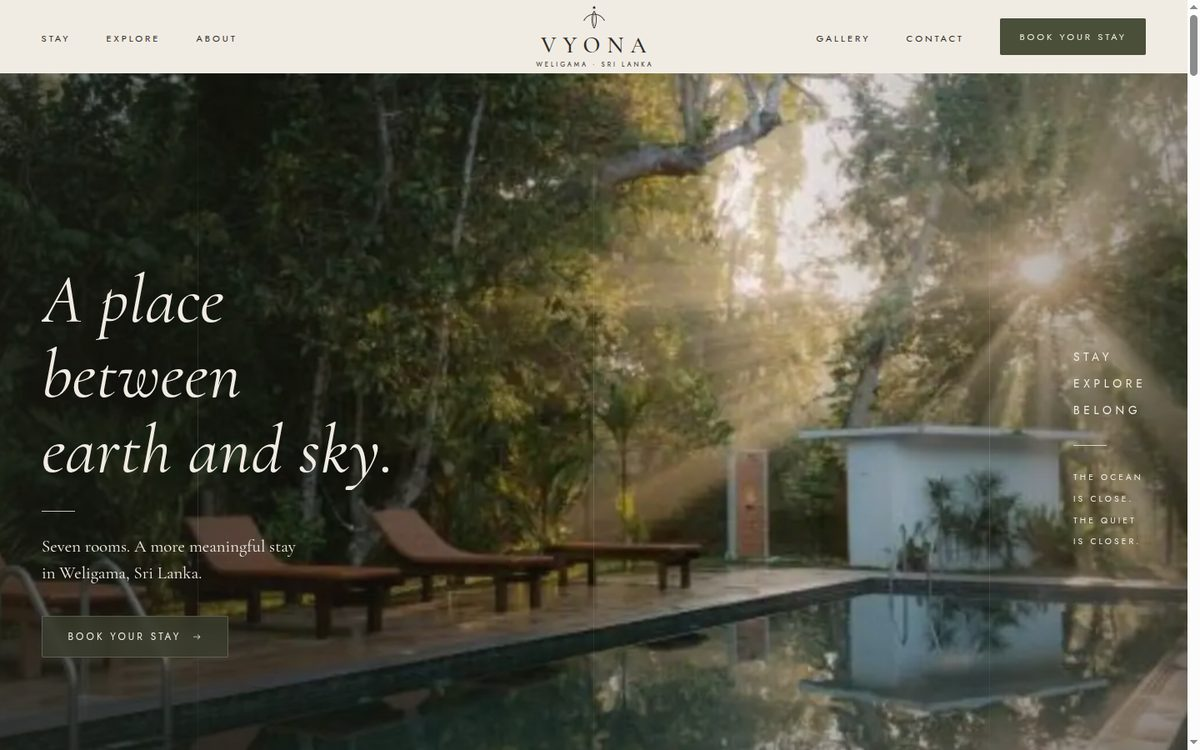
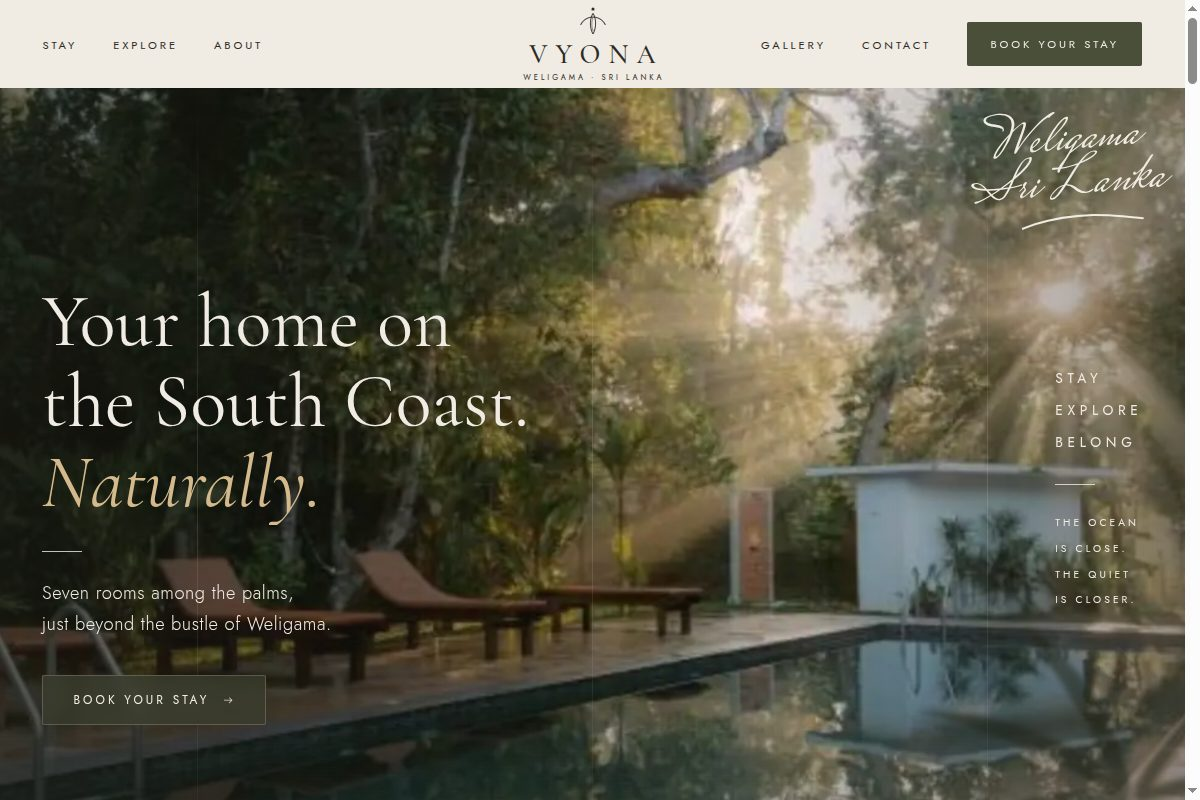
Rewrite the README for the Phase 1 system and retake the screenshots

diff --git a/README.md b/README.md
@@ -2,39 +2,50 @@
 
 # VYONA
 
-**Direct-booking site for a seven-room boutique villa in Weligama, Sri Lanka.**
+**Direct-booking system for a seven-room boutique villa in Weligama, Sri Lanka.**
 
-A single-file, fully offline HTML prototype with an interactive 3D villa, a custom GLSL water
-shader, a shader-based liquid hover and a working mock booking flow — built with Three.js, GSAP
-and Motion, bundled by esbuild into one 4 MB file you can send over WhatsApp.
+A Next.js public site with an interactive 3D villa and a live booking calendar, PayHere checkout
+with room holds that can't double-book, an owner's admin, and a job worker for emails and
+channel sync. Postgres, Prisma, Redis and BullMQ in a pnpm + Turborepo monorepo, all running in
+Docker.
 
 </div>
 
-![The VYONA hero](docs/screenshots/hero.jpg)
+![The VYONA home page](docs/screenshots/hero.jpg)
 
-## Why a single file
+## Status
 
-The villa's owner needed to review the design before the real system was built, from a phone, with
-patchy connectivity. So the prototype is one HTML file: every photo is a WebP data URI, every font
-is inlined base64, and Three.js, GSAP and Motion are bundled in. Open it from an email attachment
-on a plane and the 3D scene still runs. The only network request on the page is the Google Maps
-iframe, and it loads lazily and only when the browser reports it is online.
+| Phase | What | State |
+|---|---|---|
+| 0 | Single-file HTML prototype for the client to review ([`prototype/`](prototype/)) | Done, approved, live at [vyonaweligama.com](https://vyonaweligama.com) |
+| 1.1–1.3 | Monorepo, pricing and availability core, public site ported from the prototype | Done |
+| 1.4 | Booking flow: room holds, PayHere checkout, confirmation emails, hold expiry | Done |
+| 1.5 | Owner's admin: calendar, bookings, rates, photos, settings | Done |
+| 1.6 | Booking.com sync through Beds24 | Next |
+| 1.7 | Production images, deployment and backups | Planned |
 
-## What's in it
+The full specification is in [docs/booking-engine-spec.md](docs/booking-engine-spec.md), and the
+3D and motion rules are in [docs/frontend-visual-guide.md](docs/frontend-visual-guide.md).
+
+## The public site
 
 |  |  |
 |---|---|
-| **Interactive 3D villa** | A stylised model of the grounds built entirely in code — buildings, hipped roofs, palms with swaying fronds, loungers, a shade sail and a pergola. Orbit with damping and auto-rotate, hover to make a zone glow, click to fly the camera there and open its card. |
+| **Interactive 3D villa** | A stylised model of the grounds built in code with Three.js: buildings, hipped roofs, palms with swaying fronds, loungers, a shade sail and a pergola. Orbit within limits, hover to make a zone glow, click to fly the camera there and open its card. Loaded with a dynamic import, only when it scrolls into view. |
 | **Custom water shader** | The pool is a `ShaderMaterial`: layered sine waves displace the surface, normals are rebuilt from finite differences, and the fragment shader adds depth tint, animated caustics, a fresnel sky reflection and a sun glint. |
-| **Liquid image hover** | One shared WebGL canvas is moved over whichever image the pointer is on and redraws it through a ripple-distortion shader — no per-image contexts. |
-| **Mock booking flow** | Two-month calendar with availability, per-night pricing, hover range preview, guest stepper, USD/LKR toggle, validation, a 15-minute hold with a live countdown, and a confirmation reference. A bottom sheet on mobile. |
-| **Motion** | Ken Burns hero cross-fade, GSAP ScrollTrigger parallax at several depths, `scaleY` image unveils, magnetic buttons on a spring, and a custom cursor that grows over links. Transform and opacity only. |
-| **Graceful degradation** | A capability check (WebGL, renderer string, `deviceMemory`, `hardwareConcurrency`, `saveData`, reduced motion, viewport) swaps the 3D scene for a swipeable photo sequence and switches off the ripple and cursor on weak devices. |
+| **Liquid image hover** | One shared WebGL canvas moves over whichever image the pointer is on and redraws it through a ripple shader, so there are no per-image contexts. |
+| **Live booking calendar** | Two months of real availability and nightly prices from the server, a hover range preview, guest stepper, USD/LKR toggle, a server-side hold with a countdown, then PayHere. A bottom sheet on mobile. |
+| **Motion** | Ken Burns hero cross-fade, GSAP ScrollTrigger parallax at several depths, `scaleY` image unveils, magnetic buttons on a spring, and a custom cursor. Transform and opacity only, and reduced motion is respected. |
+| **Graceful degradation** | A capability check (WebGL, renderer string, `deviceMemory`, `hardwareConcurrency`, `saveData`, reduced motion, viewport) swaps the 3D scene for a photo slider and switches off the ripple and cursor on weak devices. `?lite=1` and `?full=1` force either mode. |
+| **Fast photos without an optimiser** | Photos are converted once to 1200px WebP plus a 24px blurred placeholder stored in the database. The placeholder paints immediately inside a fixed aspect box, so nothing shifts, and the files are served with a one-year cache. |
+
+Pages are server components. Room pages carry JSON-LD `HotelRoom` data, and the layout carries
+`LodgingBusiness`.
 
 <table>
 <tr>
 <td width="50%"><img src="docs/screenshots/villa-3d.jpg" alt="The interactive 3D villa grounds"></td>
-<td width="50%"><img src="docs/screenshots/booking.jpg" alt="The booking calendar with a selected range"></td>
+<td width="50%"><img src="docs/screenshots/booking.jpg" alt="The booking calendar with four nights selected"></td>
 </tr>
 <tr>
 <td><img src="docs/screenshots/rooms.jpg" alt="The seven element rooms"></td>
@@ -42,84 +53,125 @@ iframe, and it loads lazily and only when the browser reports it is online.
 </tr>
 </table>
 
+## Booking
+
+1. **Quote.** `packages/core` prices each night from the room's base rate, season and weekday
+   rules, and any price the owner set for that night. A service charge and a long-stay discount
+   are applied on top. Money is integer cents in USD.
+2. **Hold.** "Review booking" locks the room's nights with `SELECT … FOR UPDATE` inside one
+   transaction and holds them for 15 minutes. A concurrency test fires 20 parallel holds at the
+   same nights and expects exactly one to win.
+3. **Pay.** Each attempt opens a PayHere payment with a server-signed form. Only PayHere's
+   signed notify confirms a booking. Retried notifies are idempotent, a late failure can't undo
+   a payment, and a payment that lands after its hold expired either takes the nights back or
+   alerts the owner to refund.
+4. **After.** The worker emails the guest and the owner, and sweeps expired holds every minute.
+
+Without PayHere credentials in development, checkout goes to a built-in test gateway at
+`/book/pay/mock` that checks the same hash and signs a notify the same way.
+
+## The admin
+
+The owner's desk runs on its own subdomain.
+
+- **Calendar:** rooms against six weeks of nights, with bookings by source, holds, closed nights,
+  custom prices and minimum stays. Drag across nights (or tap two on a phone) to close or open
+  them, or set a price or minimum stay.
+- **Bookings:** views for arrivals, departures, guests in house, payments due and refunds, plus
+  search. A booking can be moved to new dates or another room, cancelled with an optional email
+  to the guest, or entered by hand for walk-ins and phone bookings.
+- **Rates, photos and settings:** base rates and season or weekday rules; photo upload,
+  ordering, covers and alt text; service charge, discounts, the LKR rate, payment time and
+  pay-at-villa.
+
+Sign-in uses scrypt password hashes and sessions whose tokens are stored only as SHA-256, with a
+lockout after repeated failures.
+
+<table>
+<tr>
+<td width="50%"><img src="docs/screenshots/admin-calendar.jpg" alt="The admin calendar with bookings across the rooms"></td>
+<td width="50%"><img src="docs/screenshots/admin-bookings.jpg" alt="The admin bookings list"></td>
+</tr>
+</table>
+
 ## Quick start
 
-The client's photographs are not in this repository, so the build needs your own images. Drop them
-in `images/` and map them to the keys in `prototype/src/data/photos.json`.
+Everything runs in Docker; `node_modules` and `.next` live in named volumes, not on the host.
 
 ```bash
 git clone https://github.com/<your-user>/vyona-villa.git
 cd vyona-villa
-
-# one-off build → .dist/vyona-prototype.html
-docker compose run --rm prototype npm run build
-
-# or watch and serve on http://localhost:5173
-docker compose up prototype
+cp .env.example .env      # set ADMIN_EMAIL and ADMIN_PASSWORD (10+ characters) for the first login
+docker compose up
 ```
 
-Node 22 and `npm install && npm run build` inside `prototype/` work too, if you'd rather not use
-Docker. Add `?lite=1` to the URL to force the low-power fallback, or `?full=1` to force the full
-experience.
+The app container installs dependencies, applies migrations, seeds the rooms and rate rules,
+imports photos and starts every app:
 
-## How the build works
+| Service | URL |
+|---|---|
+| Public site | http://localhost:3000 |
+| Admin | http://localhost:3001 |
+| Mailpit (catches every email) | http://localhost:8025 |
 
-`prototype/build.mjs` does three things:
+The client's photographs are not in this repository. The site runs without them, with empty
+photo slots. To use your own, put them in `images/` and map them in
+[`packages/db/src/media-data.ts`](packages/db/src/media-data.ts), or upload them in the admin.
 
-1. **Photos** — sharp resizes each image to 1200px WebP (quality 60) and renders a 24px blurred
-   placeholder. Both go into a JSON map, cached by file mtime, that the page reads from a
-   `<script type="application/json">` tag. The placeholder shows immediately; the full image
-   decodes off-screen and fades in, so layout never shifts.
-2. **Code** — esbuild bundles the ES modules with `.woff2` as `dataurl`, `.glsl` and `.svg` as
-   `text`, and minifies.
-3. **Inlining** — the CSS, the JS bundle and the photo map are written into `index.html` at marker
-   comments, producing `.dist/vyona-prototype.html`.
+```bash
+docker compose run --rm sh pnpm typecheck    # also: test, build, db:migrate, db:studio
+docker compose run --rm sh pnpm media:import  # images/ → WebP + placeholders
+```
+
+Core tests run against a separate `vyona_test` database that the test setup creates and
+truncates, so development data is never touched. CI runs typecheck, tests and a full build
+against Postgres and Redis services.
 
 ## Project layout
 
 ```
-brand/                 logo and mark, redrawn as SVG
-docs/                  specifications and screenshots
-prototype/
-  build.mjs            sharp + esbuild → one HTML file
-  src/index.html       markup, with data-* hooks for every module
-  src/styles/          design tokens, sections, responsive rules
-  src/js/
-    villa3d.js         the 3D scene, zones, camera flights, fallback slider
-    water.vert.glsl    pool surface displacement
-    water.frag.glsl    caustics, fresnel, sun glint
-    booking.js         calendar, pricing, three-step flow, mobile drawer
-    ripple.js          shared-canvas liquid hover
-    motion.js          ScrollTrigger parallax and reveals
-    capability.js      device tiering
-    …                  hero, rooms, gallery, cursor, magnetic, images, ui, store
-  src/data/photos.json photo key → filename
+apps/
+  web/        Next.js public site; the public API lives in its route handlers
+  admin/      Next.js owner's desk
+  worker/     BullMQ worker: hold expiry, emails, Booking.com sync
+packages/
+  core/       pricing, availability, holds, payments, PayHere signing, admin operations, auth
+  db/         Prisma schema, migrations, seed (the client's room brief), photo conversion
+  ui/         design tokens (Tailwind 4 @theme), line icons, logo
+prototype/    Phase 0: the single-file HTML prototype
+brand/        logo and mark, redrawn as SVG
+docs/         specifications and screenshots
 ```
 
 ## Design
 
 The palette and typography come from the villa's own design reference: linen `#F1ECE3`, sand
 `#E6DED1`, olive `#4A4F3A`, ink `#2B2A26`, taupe `#6B6457` and a bronze accent `#A88B5E`, set in
-Cormorant Garamond with Jost for labels. The seven rooms are named for elements — Dhara, Jala,
-Agni, Vayu, Vyoma, Surya, Soma — each with its own line icon.
+Cormorant Garamond with Jost for labels. The seven rooms are named for elements, each with its
+own line icon: Dhara (earth), Jala (water), Vayu (air), Agni (fire), Soma (moon), Surya (sun)
+and Tara (star).
 
-The page is mobile-first and verified from 320px to 2560px with no horizontal scroll. Reduced
-motion is respected everywhere; the 3D scene renders only while it is on screen.
+Pages are mobile-first and checked from 320px to 2560px with no horizontal scroll.
 
-## Roadmap
+## The prototype
 
-Phase 0, the prototype in this repository, is complete and with the client. The production system
-is specified in [docs/booking-engine-spec.md](docs/booking-engine-spec.md):
+Before the real system, the owner needed to review the design from a phone with patchy
+connectivity. So [`prototype/`](prototype/) builds into a single HTML file: every photo is a
+WebP data URI, every font is inlined, and Three.js, GSAP and Motion are bundled in. It runs
+offline from an email attachment, booking flow (mocked) and 3D scene included. A second build
+writes the photos as files for the live site instead, cutting the page from 2.8 MB to 356 KB
+compressed.
 
-- **Phase 1** — Next.js monorepo (public site, admin, API), Postgres with Prisma, Redis and BullMQ
-  for jobs, all in docker-compose.
-- **Phase 2** — Booking.com ARI sync and webhooks, so rates and availability stay in step with the
-  channel manager.
-- **Phase 3** — Payments, email confirmations, and a real villa model. A `.glb` exported from the
-  architectural model, compressed with Draco (`gltf-transform draco`) and loaded through
-  `DRACOLoader`, will replace the coded scene; the zone, hover and camera logic stays as it is.
+```bash
+docker compose run --rm prototype npm run build      # → .dist/vyona-prototype.html
+docker compose run --rm prototype npm run build:web  # → .dist/web/
+docker compose up prototype                          # watch + serve on :5173
+```
+
+The prototype is frozen as the visual reference; every effect in it has been ported to
+`apps/web`.
 
 ## Licence
 
 Code is [MIT](LICENSE). The VYONA name, logo, photographs and written copy are the property of
-VYONA, Weligama, and are not licensed for reuse — replace them with your own if you build on this.
+VYONA, Weligama, and are not licensed for reuse. Replace them with your own if you build on this.

diff --git a/diary.md b/diary.md
@@ -38,6 +38,9 @@ Newest entry on top. Read [CLAUDE.md](CLAUDE.md) first for the rules and design 
 - **DB:** migration `admin_sessions` (`AdminSession`, `Reservation.ownerNotes`). The seed
   creates photos only if missing and never overwrites the owner's order. `media:import` keeps
   files that were replaced through the admin. `convertPhoto` is shared by both.
+- **README** rewritten for Phase 1: status table, the site, booking and admin, the Docker quick
+  start, and the prototype as its own section. The screenshots were retaken from `apps/web` and
+  the admin, with demo bookings that were deleted afterwards.
 
 ### Checked
 
